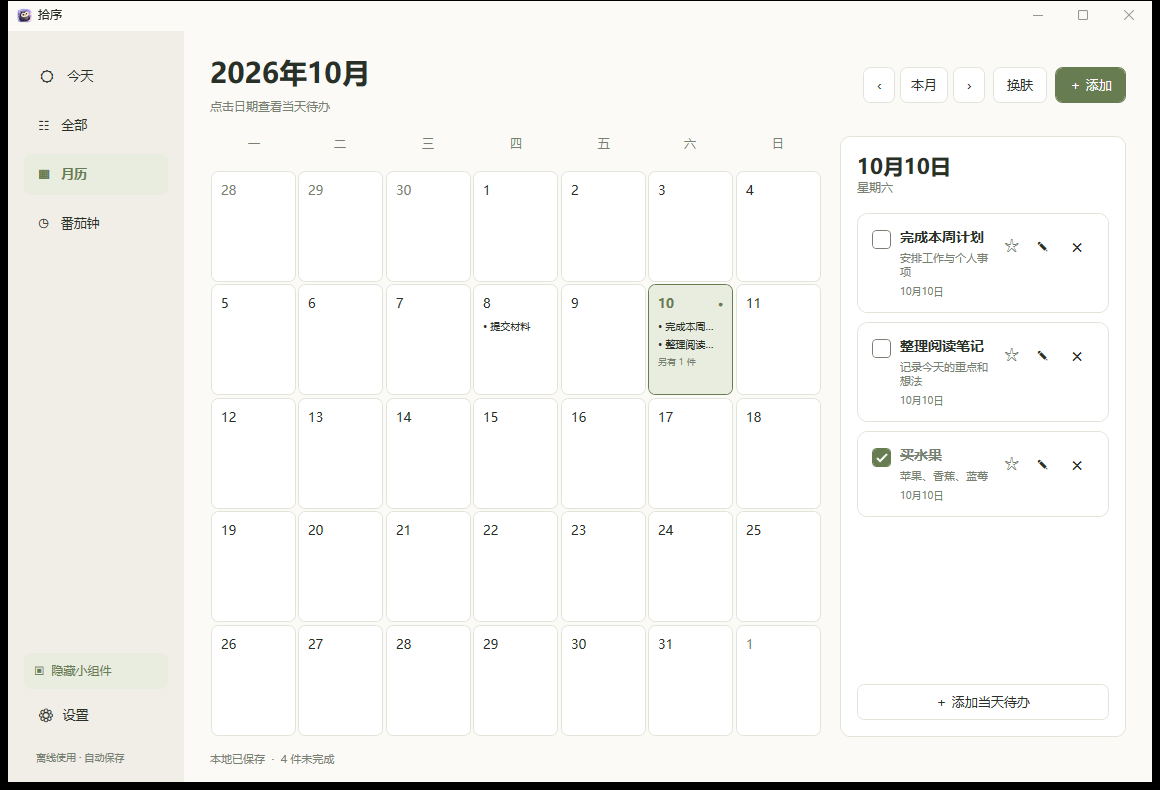
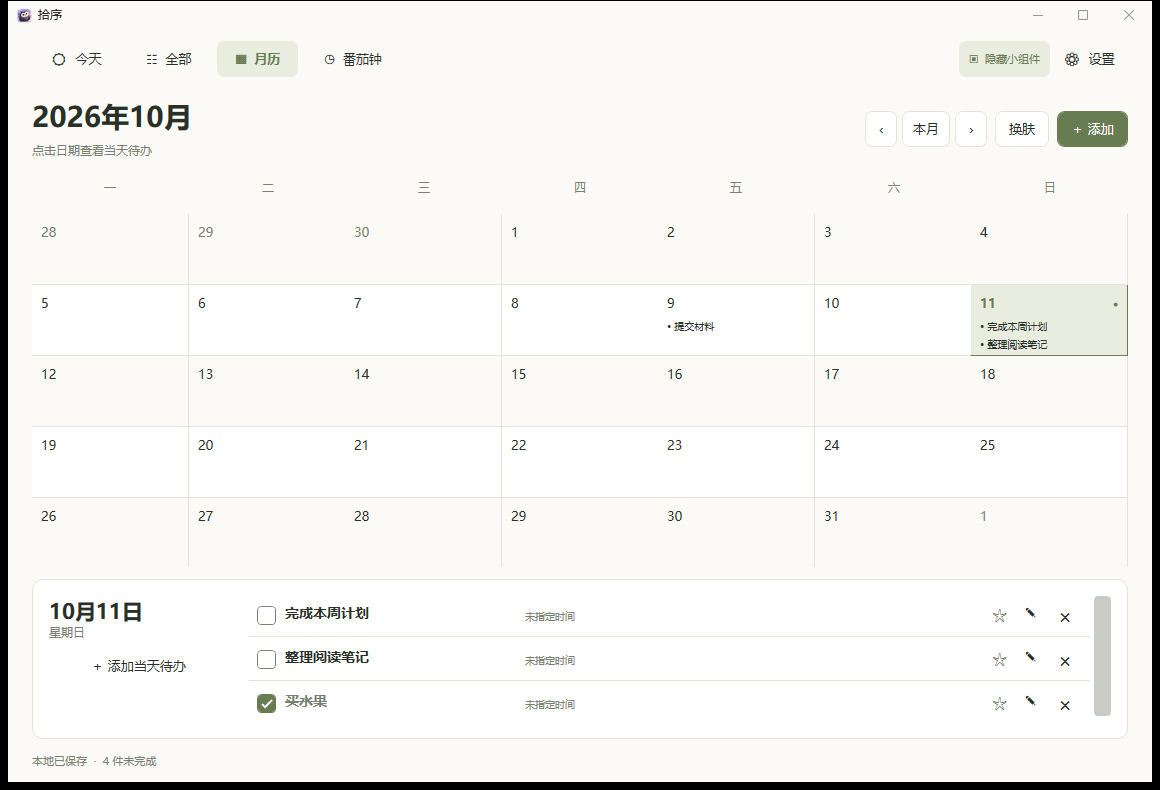
Apply focus workbench B and monthly week-band layout C in v1.8.0

diff --git a/src/Styles.xaml b/src/Styles.xaml
@@ -1,4 +1,4 @@
-<ResourceDictionary xmlns="http://schemas.microsoft.com/winfx/2006/xaml/presentation" xmlns:x="http://schemas.microsoft.com/winfx/2006/xaml" xmlns:p="clr-namespace:System.Windows.Controls.Primitives;assembly=PresentationFramework">
+<ResourceDictionary xmlns="http://schemas.microsoft.com/winfx/2006/xaml/presentation" xmlns:x="http://schemas.microsoft.com/winfx/2006/xaml" xmlns:p="clr-namespace:System.Windows.Controls.Primitives;assembly=PresentationFramework">
   <Style TargetType="Window">
     <Setter Property="FontFamily" Value="Microsoft YaHei UI, Segoe UI"/>
     <Setter Property="FontSize" Value="13"/>
@@ -34,6 +34,12 @@
   <Style x:Key="Primary" TargetType="Button" BasedOn="{StaticResource {x:Type Button}}">
     <Setter Property="Background" Value="{DynamicResource Accent}"/><Setter Property="Foreground" Value="{DynamicResource AccentInk}"/><Setter Property="BorderBrush" Value="{DynamicResource Accent}"/>
   </Style>
+  <Style x:Key="CalendarDay" TargetType="Button" BasedOn="{StaticResource {x:Type Button}}">
+    <Setter Property="Template"><Setter.Value><ControlTemplate TargetType="Button">
+      <Border x:Name="Frame" Background="{TemplateBinding Background}" BorderBrush="{TemplateBinding BorderBrush}" BorderThickness="{TemplateBinding BorderThickness}" Padding="{TemplateBinding Padding}"><ContentPresenter HorizontalAlignment="Stretch" VerticalAlignment="Top"/></Border>
+      <ControlTemplate.Triggers><Trigger Property="IsMouseOver" Value="True"><Setter TargetName="Frame" Property="Background" Value="{DynamicResource Soft}"/></Trigger><Trigger Property="IsKeyboardFocused" Value="True"><Setter TargetName="Frame" Property="BorderBrush" Value="{DynamicResource Accent}"/></Trigger></ControlTemplate.Triggers>
+    </ControlTemplate></Setter.Value></Setter>
+  </Style>
   <Style x:Key="Quiet" TargetType="Button" BasedOn="{StaticResource {x:Type Button}}">
     <Setter Property="Background" Value="Transparent"/><Setter Property="BorderThickness" Value="0"/>
   </Style>
@@ -55,9 +61,9 @@
     </ControlTemplate></Setter.Value></Setter>
   </Style>
   <Style TargetType="TextBox">
-    <Setter Property="Foreground" Value="{DynamicResource Text}"/><Setter Property="Background" Value="{DynamicResource Panel}"/><Setter Property="BorderBrush" Value="{DynamicResource Line}"/><Setter Property="BorderThickness" Value="1"/><Setter Property="Padding" Value="10,9"/><Setter Property="CaretBrush" Value="{DynamicResource Accent}"/>
+    <Setter Property="Foreground" Value="{DynamicResource Text}"/><Setter Property="Background" Value="{DynamicResource Soft}"/><Setter Property="BorderBrush" Value="{DynamicResource Line}"/><Setter Property="BorderThickness" Value="0,0,0,1"/><Setter Property="Padding" Value="8,6"/><Setter Property="CaretBrush" Value="{DynamicResource Accent}"/>
     <Setter Property="Template"><Setter.Value><ControlTemplate TargetType="TextBox">
-      <Border x:Name="Frame" Background="{TemplateBinding Background}" BorderBrush="{TemplateBinding BorderBrush}" BorderThickness="{TemplateBinding BorderThickness}" CornerRadius="7" Padding="{TemplateBinding Padding}"><ScrollViewer x:Name="PART_ContentHost"/></Border>
+      <Border x:Name="Frame" Background="{TemplateBinding Background}" BorderBrush="{TemplateBinding BorderBrush}" BorderThickness="{TemplateBinding BorderThickness}" CornerRadius="3" Padding="{TemplateBinding Padding}"><ScrollViewer x:Name="PART_ContentHost"/></Border>
       <ControlTemplate.Triggers><Trigger Property="IsKeyboardFocused" Value="True"><Setter TargetName="Frame" Property="BorderBrush" Value="{DynamicResource Accent}"/></Trigger></ControlTemplate.Triggers>
     </ControlTemplate></Setter.Value></Setter>
   </Style>

diff --git a/src/Focus.cs b/src/Focus.cs
@@ -123,32 +123,39 @@ namespace DeskTodo
         readonly TextBlock count = Ui.Text("", 12, "Muted");
         readonly StackPanel history = new StackPanel();
         readonly Button start, pause, finish;
+        Button downMode, upMode;
+        readonly StackPanel taskList = new StackPanel();
+        readonly System.Windows.Controls.Primitives.UniformGrid trend = new System.Windows.Controls.Primitives.UniformGrid { Columns = 7 };
+        object taskState; DateTime taskDay;
         string shownSession, historyKey;
         public FocusPanel(AppController controller)
         {
             app = controller;
-            ColumnDefinitions.Add(new ColumnDefinition { Width = new GridLength(1.05, GridUnitType.Star) });
-            ColumnDefinitions.Add(new ColumnDefinition { Width = new GridLength(1, GridUnitType.Star) });
+            ColumnDefinitions.Add(new ColumnDefinition { Width = new GridLength(0.85, GridUnitType.Star) });
+            ColumnDefinitions.Add(new ColumnDefinition { Width = new GridLength(1.4, GridUnitType.Star) });
+            RowDefinitions.Add(new RowDefinition()); RowDefinitions.Add(new RowDefinition { Height = new GridLength(136) });
             var timerPanel = new StackPanel(); timerPanel.Children.Add(Ui.Text("这次学什么", 18, "Text", true));
-            name.Margin = new Thickness(0, 16, 0, 16); AutomationProperties.SetName(name, "学习名称"); timerPanel.Children.Add(name);
-            AutomationProperties.SetName(mode, "学习计时模式"); mode.Margin = new Thickness(0, 0, 0, 14); timerPanel.Children.Add(mode);
+            name.FontSize = 23; name.FontWeight = FontWeights.SemiBold; name.Height = 44; name.Padding = new Thickness(8, 0, 8, 0); name.VerticalContentAlignment = VerticalAlignment.Center; name.Background = Brushes.Transparent; name.Margin = new Thickness(0, 6, 0, 10); AutomationProperties.SetName(name, "学习名称"); timerPanel.Children.Add(name);
+            AutomationProperties.SetName(mode, "学习计时模式"); mode.Visibility = Visibility.Collapsed; timerPanel.Children.Add(mode); var modeBar = new StackPanel { Orientation = Orientation.Horizontal, HorizontalAlignment = HorizontalAlignment.Right, Margin = new Thickness(0, 0, 0, 12) }; downMode = Ui.Button("倒计时", () => mode.SelectedIndex = 0, "Quiet"); upMode = Ui.Button("正向计时", () => mode.SelectedIndex = 1, "Quiet"); modeBar.Children.Add(downMode); modeBar.Children.Add(upMode); timerPanel.Children.Add(modeBar);
             var label = Ui.Text("专注时长", 13, "Muted"); label.VerticalAlignment = VerticalAlignment.Center; label.Margin = new Thickness(0, 0, 12, 0); durationRow.Children.Add(label);
             AutomationProperties.SetName(minutes, "学习分钟"); durationRow.Children.Add(minutes);
             var unit = Ui.Text("分钟 · 1–720", 12, "Muted"); unit.Margin = new Thickness(12, 0, 0, 0); unit.VerticalAlignment = VerticalAlignment.Center; durationRow.Children.Add(unit); timerPanel.Children.Add(durationRow);
-            countdown.FontFamily = new FontFamily("Consolas"); countdown.HorizontalAlignment = HorizontalAlignment.Center; countdown.Margin = new Thickness(0, 38, 0, 8); AutomationProperties.SetName(countdown, "学习倒计时"); timerPanel.Children.Add(countdown);
-            phase.HorizontalAlignment = HorizontalAlignment.Center; phase.Margin = new Thickness(0, 0, 0, 26); timerPanel.Children.Add(phase);
+            countdown.FontSize = 82; countdown.FontFamily = new FontFamily("Consolas"); countdown.HorizontalAlignment = HorizontalAlignment.Center; countdown.Margin = new Thickness(0, 12, 0, 4); AutomationProperties.SetName(countdown, "学习倒计时"); timerPanel.Children.Add(countdown);
+            phase.HorizontalAlignment = HorizontalAlignment.Center; phase.Margin = new Thickness(0, 0, 0, 10); timerPanel.Children.Add(phase);
             var controls = new StackPanel { Orientation = Orientation.Horizontal, HorizontalAlignment = HorizontalAlignment.Center };
             start = Ui.Button("开始学习", () => { int value = 0; bool countUp = mode.SelectedIndex == 1; if (String.IsNullOrWhiteSpace(name.Text) || (!countUp && (!Int32.TryParse(minutes.Text.Trim(), NumberStyles.None, CultureInfo.InvariantCulture, out value) || value < 1 || value > 720))) { phase.Text = countUp ? "请填写学习名称" : "请填写名称和 1–720 分钟的时长"; return; } app.StartFocus(name.Text, value, countUp); }, "Primary"); controls.Children.Add(start);
             pause = Ui.Button("暂停", () => { if (app.FocusRunning) app.PauseFocus(); else app.ResumeFocus(); }); pause.Margin = new Thickness(10, 0, 0, 0); controls.Children.Add(pause); timerPanel.Children.Add(controls);
-            finish = Ui.Button("结束并记录", () => app.FinishFocus(app.Store.State.ActiveFocus != null && app.Store.State.ActiveFocus.IsCountUp), "Quiet"); finish.HorizontalAlignment = HorizontalAlignment.Center; finish.Margin = new Thickness(0, 12, 0, 0); timerPanel.Children.Add(finish);
-            var hint = Ui.Text("暂停时间不计入学习时长。关闭主窗口仍计时，彻底退出或休眠时暂停。", 11, "Muted"); hint.Margin = new Thickness(0, 24, 0, 0); timerPanel.Children.Add(hint);
-            var timerCard = Ui.Card(Ui.Scroll(timerPanel), new Thickness(24)); timerCard.Margin = new Thickness(0, 0, 20, 0); Children.Add(timerCard);
-            var stats = new DockPanel(); var summary = new StackPanel { Margin = new Thickness(0, 0, 0, 20) }; DockPanel.SetDock(summary, Dock.Top); stats.Children.Add(summary);
-            summary.Children.Add(Ui.Text("今日学习", 20, "Text", true)); dayLabel.Margin = new Thickness(0, 6, 0, 20); summary.Children.Add(dayLabel);
-            summary.Children.Add(Ui.Text("累计专注时长（分:秒）", 12, "Muted")); total.Margin = new Thickness(0, 6, 0, 6); summary.Children.Add(total); summary.Children.Add(count);
-            var divider = new Border { Height = 1, Margin = new Thickness(0, 20, 0, 14) }; divider.SetResourceReference(Border.BackgroundProperty, "Line"); summary.Children.Add(divider);
-            summary.Children.Add(Ui.Text("学习记录", 14, "Text", true)); summary.Children.Add(Ui.Text("按实际计时统计；进行中的时长也计入累计。", 11, "Muted"));
-            stats.Children.Add(Ui.Scroll(history)); var statsCard = Ui.Card(stats, new Thickness(22)); Grid.SetColumn(statsCard, 1); Children.Add(statsCard);
+            finish = Ui.Button("结束并记录", () => app.FinishFocus(app.Store.State.ActiveFocus != null && app.Store.State.ActiveFocus.IsCountUp), "Quiet"); finish.Margin = new Thickness(8, 0, 0, 0); controls.Children.Add(finish);
+            var hint = Ui.Text("暂停时间不计入学习时长。关闭主窗口仍计时，彻底退出或休眠时暂停。", 11, "Muted"); hint.Visibility = Visibility.Collapsed; timerPanel.Children.Add(hint);
+            var timerCard = Ui.Card(Ui.Scroll(timerPanel), new Thickness(24)); timerCard.Margin = new Thickness(20, 0, 0, 14); timerCard.BorderThickness = new Thickness(0); Grid.SetColumn(timerCard, 1); Children.Add(timerCard);
+            var stats = new DockPanel(); var listHeader = new DockPanel(); DockPanel.SetDock(listHeader, Dock.Top); stats.Children.Add(listHeader);
+            var addTask = Ui.Button("＋ 添加待办", () => app.Edit(null, DateTime.Today), "Quiet"); DockPanel.SetDock(addTask, Dock.Right); listHeader.Children.Add(addTask); listHeader.Children.Add(Ui.Text("今日任务与记录", 17, "Text", true));
+            var listContent = new StackPanel(); listContent.Children.Add(taskList); var recorded = Ui.Text("已记录的学习", 12, "Muted"); recorded.Margin = new Thickness(0, 18, 0, 12); listContent.Children.Add(recorded); listContent.Children.Add(history);
+            stats.Children.Add(Ui.Scroll(listContent)); var statsCard = Ui.Card(stats, new Thickness(16)); statsCard.BorderThickness = new Thickness(0); statsCard.Margin = new Thickness(0, 0, 0, 14); Children.Add(statsCard);
+            var band = new Grid(); band.ColumnDefinitions.Add(new ColumnDefinition { Width = new GridLength(300) }); band.ColumnDefinitions.Add(new ColumnDefinition());
+            var summary = new StackPanel(); summary.Children.Add(Ui.Text("今日学习", 14, "Text", true)); dayLabel.Margin = new Thickness(0, 3, 0, 5); summary.Children.Add(dayLabel); total.FontSize = 30; summary.Children.Add(total); summary.Children.Add(count); band.Children.Add(summary);
+            var trendPanel = new StackPanel(); trendPanel.Children.Add(Ui.Text("近7天学习时长 · 分钟", 11, "Muted")); trend.Margin = new Thickness(0, 6, 0, 0); trendPanel.Children.Add(trend); Grid.SetColumn(trendPanel, 1); band.Children.Add(trendPanel);
+            var bandCard = Ui.Card(band, new Thickness(16)); Grid.SetRow(bandCard, 1); Grid.SetColumnSpan(bandCard, 2); Children.Add(bandCard);
             minutes.TextChanged += (s, e) => { if (app.Store.State.ActiveFocus == null) { int value; if (Int32.TryParse(minutes.Text, out value) && value >= 1 && value <= 720) countdown.Text = Study.FormatDuration(value * 60); } };
             mode.SelectionChanged += (s, e) => Refresh();
             Refresh();
@@ -159,7 +166,7 @@ namespace DeskTodo
             var active = app.Store.State.ActiveFocus;
             if (active != null && (shownSession != active.Id || forceHistory)) { shownSession = active.Id; name.Text = active.Title; if (!active.IsCountUp) minutes.Text = (active.TargetSeconds / 60).ToString(); mode.SelectedIndex = active.IsCountUp ? 1 : 0; }
             if (active == null) shownSession = null;
-            name.IsEnabled = minutes.IsEnabled = mode.IsEnabled = active == null; start.IsEnabled = active == null; pause.IsEnabled = finish.IsEnabled = active != null; durationRow.Visibility = mode.SelectedIndex == 1 ? Visibility.Collapsed : Visibility.Visible;
+            name.IsEnabled = minutes.IsEnabled = mode.IsEnabled = downMode.IsEnabled = upMode.IsEnabled = active == null; downMode.SetResourceReference(Button.BackgroundProperty, mode.SelectedIndex == 0 ? "Soft" : "Surface"); upMode.SetResourceReference(Button.BackgroundProperty, mode.SelectedIndex == 1 ? "Soft" : "Surface"); start.IsEnabled = active == null; pause.IsEnabled = finish.IsEnabled = active != null; durationRow.Visibility = mode.SelectedIndex == 1 ? Visibility.Collapsed : Visibility.Visible;
             pause.Content = active == null || app.FocusRunning ? "暂停" : "继续"; AutomationProperties.SetName(pause, pause.Content.ToString());
             if (active != null) { countdown.Text = Study.FormatDuration(active.IsCountUp ? app.FocusSeconds : Math.Ceiling(Math.Max(0, active.TargetSeconds - app.FocusSeconds))); phase.Text = app.FocusRunning ? active.IsCountUp ? "正向计时中 · 随时结束并记录" : "专注中 · 一次只做一件事" : "已暂停 · 可继续本次学习"; }
             else { int value; countdown.Text = Study.FormatDuration(mode.SelectedIndex == 0 && Int32.TryParse(minutes.Text, out value) && value > 0 && value <= 720 ? value * 60 : 0); phase.Text = mode.SelectedIndex == 1 ? "无需预设时长，从 00:00 开始" : "准备开始"; }
@@ -167,6 +174,7 @@ namespace DeskTodo
             var records = app.Store.State.FocusHistory.Where(f => Study.SecondsOn(f, today) > 0 || DateTimeOffset.ParseExact(f.EndedAt, "o", CultureInfo.InvariantCulture).Date == today).ToList();
             double seconds = records.Sum(f => Study.SecondsOn(f, today)); var current = app.FocusSnapshot(); if (current != null) seconds += Study.SecondsOn(current, today);
             total.Text = Study.FormatDuration(seconds);
+            RefreshTasksAndTrend(today, current);
             int completed = records.Count(f => f.Completed && DateTimeOffset.ParseExact(f.EndedAt, "o", CultureInfo.InvariantCulture).Date == today);
             int ended = records.Count(f => !f.Completed && DateTimeOffset.ParseExact(f.EndedAt, "o", CultureInfo.InvariantCulture).Date == today);
             count.Text = "完成 " + completed + " 次  ·  提前结束 " + ended + " 次";
@@ -181,6 +189,16 @@ namespace DeskTodo
                 row.Children.Add(Ui.Text(from.ToString("M/d HH:mm") + " – " + to.ToString("M/d HH:mm") + "  ·  " + (record.Completed ? "已完成" : "提前结束"), 11, record.Completed ? "Accent" : "Muted"));
                 var card = Ui.Card(row, new Thickness(14)); card.Margin = new Thickness(0, 0, 0, 10); history.Children.Add(card);
             }
+        }
+        void RefreshTasksAndTrend(DateTime today, FocusSession current)
+        {
+            if (Object.ReferenceEquals(taskState, app.Store.State) && taskDay == today) return;
+            taskState = app.Store.State; taskDay = today; taskList.Children.Clear();
+            var tasks = app.Store.State.Items.Where(i => !i.Done && i.Date == Dates.Key(today)).OrderByDescending(i => i.Important).ThenBy(i => i.Time ?? "99:99").ToList();
+            if (tasks.Count == 0) taskList.Children.Add(Ui.Text("今天暂无待办，可直接填写学习名称", 12, "Muted"));
+            foreach (var task in tasks) { var button = Ui.Button("", () => { if (app.Store.State.ActiveFocus == null) name.Text = task.Title; }, "Quiet"); button.HorizontalContentAlignment = HorizontalAlignment.Stretch; var row = new StackPanel(); row.Children.Add(Ui.Text((task.Important ? "★ " : "○ ") + task.Title, 14, "Text", true)); row.Children.Add(Ui.Text((task.Time ?? "未指定时间") + (String.IsNullOrWhiteSpace(task.Location) ? "" : " · " + task.Location), 11, "Muted")); button.Content = row; button.Margin = new Thickness(0, 6, 0, 0); button.ToolTip = "点击填入学习名称；不会自动完成待办"; AutomationProperties.SetName(button, "学习任务 " + task.Title); taskList.Children.Add(button); }
+            trend.Children.Clear(); var all = app.Store.State.FocusHistory.ToList(); if (current != null) all.Add(current); var report = Study.Summarize(all, today.AddDays(-6), today); double max = Math.Max(60, report.SecondsByDay.Values.Max());
+            for (int n = 0; n < 7; n++) { var day = today.AddDays(n - 6); double value = report.SecondsByDay[Dates.Key(day)]; var column = new StackPanel { Margin = new Thickness(7, 0, 7, 0) }; var t = Ui.Text((value / 60).ToString("0.#"), 9, "Muted"); t.TextAlignment = TextAlignment.Center; column.Children.Add(t); var plot = new Grid { Height = 52 }; var bar = new Border { Height = value / max * 52, VerticalAlignment = VerticalAlignment.Bottom, CornerRadius = new CornerRadius(3, 3, 0, 0) }; bar.SetResourceReference(Border.BackgroundProperty, "Accent"); plot.Children.Add(bar); column.Children.Add(plot); var date = Ui.Text(day.ToString("M/d"), 10, "Muted"); date.TextAlignment = TextAlignment.Center; column.Children.Add(date); trend.Children.Add(column); }
         }
     }
 }

diff --git a/src/MainWindow.cs b/src/MainWindow.cs
@@ -33,20 +33,16 @@ namespace DeskTodo
             SourceInitialized += (s, e) => { NativeDesktop.DarkTitle(this, app.Settings.Theme == "dark"); NativeDesktop.RegisterActivation(this, app.BasePath, app.ShowMain, app.Exit); };
             Closing += (s, e) => { if (!app.Exiting) { e.Cancel = true; Hide(); } };
             PreviewKeyDown += (s, e) => { if (e.Key == Key.N && (Keyboard.Modifiers & ModifierKeys.Control) != 0) { app.Edit(null, page == "全部" ? (DateTime?)null : page == "月历" ? selected : DateTime.Today); e.Handled = true; } };
-            var layout = new Grid(); layout.ColumnDefinitions.Add(new ColumnDefinition { Width = new GridLength(176) }); layout.ColumnDefinitions.Add(new ColumnDefinition()); Content = layout;
-            var side = new DockPanel { Margin = new Thickness(16, 25, 16, 18) };
-            var sideBorder = new Border { Child = side }; sideBorder.SetResourceReference(Border.BackgroundProperty, "Sidebar"); layout.Children.Add(sideBorder);
-            var footer = new StackPanel(); DockPanel.SetDock(footer, Dock.Bottom); side.Children.Add(footer);
-            widgetToggle = Ui.Button("▣  桌面小组件", () => app.ToggleWidget(), "Quiet"); widgetToggle.HorizontalContentAlignment = HorizontalAlignment.Left; widgetToggle.FontSize = 12; widgetToggle.Padding = new Thickness(10, 10, 6, 10); widgetToggle.Margin = new Thickness(0, 0, 0, 8); footer.Children.Add(widgetToggle);
-            var settings = Ui.Button("⚙  设置", () => { var window = new SettingsWindow(app) { Owner = this, WindowStartupLocation = WindowStartupLocation.CenterOwner }; window.ShowDialog(); }, "Quiet"); settings.HorizontalContentAlignment = HorizontalAlignment.Left; footer.Children.Add(settings);
-            var offline = Ui.Text("离线使用 · 自动保存", 10, "Muted"); offline.Margin = new Thickness(12, 18, 0, 0); footer.Children.Add(offline);
-            var nav = new StackPanel(); side.Children.Add(nav);
+            var layout = new DockPanel(); Content = layout;
+            var navigationBar = new Grid { Margin = new Thickness(24, 10, 24, 10) }; navigationBar.ColumnDefinitions.Add(new ColumnDefinition()); navigationBar.ColumnDefinitions.Add(new ColumnDefinition { Width = GridLength.Auto });
+            DockPanel.SetDock(navigationBar, Dock.Top); layout.Children.Add(navigationBar);
+            var nav = new StackPanel { Orientation = Orientation.Horizontal }; navigationBar.Children.Add(nav);
             string[] keys = { "今天", "全部", "月历", "番茄钟" }, icons = { "☀", "☷", "▦", "◷" };
-            for (int n = 0; n < keys.Length; n++)
-            {
-                string key = keys[n]; var b = Ui.Button(icons[n] + "   " + key, () => SelectPage(key), "Quiet"); b.HorizontalContentAlignment = HorizontalAlignment.Left; b.Padding = new Thickness(14, 12, 10, 12); b.Margin = new Thickness(0, 0, 0, 8); navigation[key] = b; nav.Children.Add(b);
-            }
-            var main = new Grid { Margin = new Thickness(26, 24, 26, 16) }; main.RowDefinitions.Add(new RowDefinition { Height = GridLength.Auto }); main.RowDefinitions.Add(new RowDefinition()); main.RowDefinitions.Add(new RowDefinition { Height = GridLength.Auto }); Grid.SetColumn(main, 1); layout.Children.Add(main);
+            for (int n = 0; n < keys.Length; n++) { string key = keys[n]; var b = Ui.Button(icons[n] + "  " + key, () => SelectPage(key), "Quiet"); b.Padding = new Thickness(18, 9, 18, 9); b.Margin = new Thickness(0, 0, 8, 0); navigation[key] = b; nav.Children.Add(b); }
+            var utilities = new StackPanel { Orientation = Orientation.Horizontal }; Grid.SetColumn(utilities, 1); navigationBar.Children.Add(utilities);
+            widgetToggle = Ui.Button("▣  桌面小组件", () => app.ToggleWidget(), "Quiet"); widgetToggle.FontSize = 11; widgetToggle.Padding = new Thickness(10, 8, 10, 8); utilities.Children.Add(widgetToggle);
+            utilities.Children.Add(Ui.Button("⚙  设置", () => { var window = new SettingsWindow(app) { Owner = this, WindowStartupLocation = WindowStartupLocation.CenterOwner }; window.ShowDialog(); }, "Quiet"));
+            var main = new Grid { Margin = new Thickness(24, 12, 24, 14) }; main.RowDefinitions.Add(new RowDefinition { Height = GridLength.Auto }); main.RowDefinitions.Add(new RowDefinition()); main.RowDefinitions.Add(new RowDefinition { Height = GridLength.Auto }); layout.Children.Add(main);
             var header = new Grid { Margin = new Thickness(0, 0, 0, 22) }; header.ColumnDefinitions.Add(new ColumnDefinition()); header.ColumnDefinitions.Add(new ColumnDefinition { Width = GridLength.Auto }); main.Children.Add(header);
             var titles = new StackPanel(); titles.Children.Add(heading); subtitle.Margin = new Thickness(0, 8, 0, 0); titles.Children.Add(subtitle); header.Children.Add(titles);
             Grid.SetColumn(tools, 1); tools.VerticalAlignment = VerticalAlignment.Center; header.Children.Add(tools);
@@ -67,7 +63,7 @@ namespace DeskTodo
             foreach (var pair in navigation)
             {
                 bool active = pair.Key == page || (page == "学习统计" && pair.Key == "番茄钟");
-                pair.Value.SetResourceReference(Button.BackgroundProperty, active ? "Soft" : "Sidebar");
+                pair.Value.SetResourceReference(Button.BackgroundProperty, active ? "Soft" : "Surface");
                 pair.Value.SetResourceReference(Button.ForegroundProperty, active ? "Accent" : "Text");
                 pair.Value.FontWeight = active ? FontWeights.SemiBold : FontWeights.Normal;
             }
@@ -99,8 +95,8 @@ namespace DeskTodo
         }
         void RenderCalendar()
         {
-            body.ColumnDefinitions.Add(new ColumnDefinition()); body.ColumnDefinitions.Add(new ColumnDefinition { Width = new GridLength(286) });
-            var calendar = new Grid { Margin = new Thickness(0, 0, 18, 0) }; calendar.RowDefinitions.Add(new RowDefinition { Height = new GridLength(34) }); calendar.RowDefinitions.Add(new RowDefinition()); body.Children.Add(calendar);
+            body.RowDefinitions.Add(new RowDefinition()); body.RowDefinitions.Add(new RowDefinition { Height = new GridLength(160) });
+            var calendar = new Grid { Margin = new Thickness(0, 0, 0, 12) }; calendar.RowDefinitions.Add(new RowDefinition { Height = new GridLength(34) }); calendar.RowDefinitions.Add(new RowDefinition()); body.Children.Add(calendar);
             var weekdays = new UniformGrid { Rows = 1, Columns = 7 };
             foreach (string name in new[] { "一", "二", "三", "四", "五", "六", "日" }) { var t = Ui.Text(name, 12, "Muted"); t.HorizontalAlignment = HorizontalAlignment.Center; weekdays.Children.Add(t); }
             calendar.Children.Add(weekdays);
@@ -122,20 +118,20 @@ namespace DeskTodo
                     preview.TextWrapping = TextWrapping.NoWrap; preview.TextTrimming = TextTrimming.CharacterEllipsis; preview.Margin = new Thickness(0, 0, 0, 5); if (item.Done) preview.TextDecorations = TextDecorations.Strikethrough; stack.Children.Add(preview);
                 }
                 if (items.Count > 2) stack.Children.Add(Ui.Text("另有 " + (items.Count - 2) + " 件", 9, "Muted"));
-                var day = Ui.Button("", () => SelectDay(date)); day.Content = stack; day.Padding = new Thickness(9, 10, 9, 5); day.MinHeight = 0; day.Margin = new Thickness(1); day.HorizontalContentAlignment = HorizontalAlignment.Stretch; day.VerticalContentAlignment = VerticalAlignment.Top;
-                day.SetResourceReference(Button.BackgroundProperty, isSelected ? "Soft" : "Panel"); day.SetResourceReference(Button.BorderBrushProperty, isSelected ? "Accent" : "Line");
+                var day = Ui.Button("", () => SelectDay(date), "CalendarDay"); day.Content = stack; day.Padding = new Thickness(9, 10, 9, 5); day.MinHeight = 0; day.Margin = new Thickness(0); day.BorderThickness = new Thickness(0, 0, 1, 1); day.HorizontalContentAlignment = HorizontalAlignment.Stretch; day.VerticalContentAlignment = VerticalAlignment.Top;
+                day.SetResourceReference(Button.BackgroundProperty, isSelected ? "Soft" : (n / 7 % 2 == 0 ? "Surface" : "Panel")); day.SetResourceReference(Button.BorderBrushProperty, isSelected ? "Accent" : "Line");
                 System.Windows.Automation.AutomationProperties.SetName(day, date.ToString("yyyy年M月d日") + "，" + items.Count + " 件待办"); days.Children.Add(day);
             }
-            var detail = new DockPanel();
-            var footer = new StackPanel { Margin = new Thickness(0, 14, 0, 0) }; DockPanel.SetDock(footer, Dock.Bottom); detail.Children.Add(footer);
-            footer.Children.Add(Ui.Button("＋ 添加当天待办", () => app.Edit(null, selected)));
-            if (app.CanUndo) { var undo = Ui.Button("撤销删除", app.UndoDelete, "Quiet"); undo.Margin = new Thickness(0, 7, 0, 0); footer.Children.Add(undo); }
-            var title = new StackPanel { Margin = new Thickness(0, 0, 0, 18) }; title.Children.Add(Ui.Text(selected.ToString("M月d日"), 21, "Text", true)); title.Children.Add(Ui.Text(selected.ToString("dddd"), 12, "Muted")); DockPanel.SetDock(title, Dock.Top); detail.Children.Add(title);
+            var detail = new Grid(); detail.ColumnDefinitions.Add(new ColumnDefinition { Width = new GridLength(200) }); detail.ColumnDefinitions.Add(new ColumnDefinition());
+            var title = new StackPanel { Margin = new Thickness(0, 2, 20, 0) }; title.Children.Add(Ui.Text(selected.ToString("M月d日"), 21, "Text", true)); title.Children.Add(Ui.Text(selected.ToString("dddd"), 12, "Muted"));
+            var addDay = Ui.Button("＋ 添加当天待办", () => app.Edit(null, selected), "Quiet"); addDay.Margin = new Thickness(0, 8, 0, 0); title.Children.Add(addDay);
+            if (app.CanUndo) title.Children.Add(Ui.Button("撤销删除", app.UndoDelete, "Quiet")); detail.Children.Add(title);
             var list = new StackPanel();
             var selectedItems = app.Store.State.Items.Where(i => i.Date == Dates.Key(selected)).OrderBy(i => i.Done).ThenByDescending(i => i.Important).ThenBy(i => i.Time ?? "99:99").ThenBy(i => i.CreatedUtc).ToList();
             if (selectedItems.Count == 0) Ui.Empty(list, "这一天还没有安排", "添加一件想完成的事");
-            else foreach (var item in selectedItems) list.Children.Add(Ui.TaskRow(app, item, false));
-            detail.Children.Add(Ui.Scroll(list)); var detailCard = Ui.Card(detail, new Thickness(16)); Grid.SetColumn(detailCard, 1); body.Children.Add(detailCard);
+            else foreach (var item in selectedItems) list.Children.Add(Ui.TaskRow(app, item, false, true));
+            var scroll = Ui.Scroll(list); Grid.SetColumn(scroll, 1); detail.Children.Add(scroll);
+            var detailCard = Ui.Card(detail, new Thickness(16)); Grid.SetRow(detailCard, 1); body.Children.Add(detailCard);
         }
         void RenderList()
         {

diff --git a/src/Ui.cs b/src/Ui.cs
@@ -36,7 +36,7 @@ namespace DeskTodo
             using (var stream = System.Reflection.Assembly.GetExecutingAssembly().GetManifestResourceStream("App.ico"))
                 window.Icon = System.Windows.Media.Imaging.BitmapFrame.Create(stream, System.Windows.Media.Imaging.BitmapCreateOptions.None, System.Windows.Media.Imaging.BitmapCacheOption.OnLoad);
         }
-        public static FrameworkElement TaskRow(AppController app, TodoItem item, bool compact)
+        public static FrameworkElement TaskRow(AppController app, TodoItem item, bool compact, bool flat = false)
         {
             var row = new Grid(); row.ColumnDefinitions.Add(new ColumnDefinition { Width = new GridLength(26) }); row.ColumnDefinitions.Add(new ColumnDefinition());
             row.ColumnDefinitions.Add(new ColumnDefinition { Width = new GridLength(28) });
@@ -49,24 +49,29 @@ namespace DeskTodo
             title.MaxHeight = compact ? 44 : 62;
             if (item.Done) title.TextDecorations = TextDecorations.Strikethrough;
             content.Children.Add(title);
+            if (flat) { content.Orientation = Orientation.Horizontal; title.Width = 240; title.TextWrapping = TextWrapping.NoWrap; title.TextTrimming = TextTrimming.CharacterEllipsis; }
             string note = item.Note ?? "";
-            if (!String.IsNullOrWhiteSpace(note)) { var n = Text(note, 11, "Muted"); n.MaxHeight = 34; n.Margin = new Thickness(0, 5, 0, 0); content.Children.Add(n); }
+            if (!flat && !String.IsNullOrWhiteSpace(note)) { var n = Text(note, 11, "Muted"); n.MaxHeight = 34; n.Margin = new Thickness(0, 5, 0, 0); content.Children.Add(n); }
             string date = item.Date == null ? "未设日期" : DateTime.ParseExact(item.Date, "yyyy-MM-dd", CultureInfo.InvariantCulture).ToString("M月d日");
             if (item.Time != null) date += "  " + item.Time;
             if (item.Reminder) date += " · 提醒";
             if (item.SeriesId != null) date += " · 重复";
             if (Dates.Overdue(item, DateTime.Today)) date += " · 逾期";
+            if (flat) date = (item.Time ?? "未指定时间") + (String.IsNullOrWhiteSpace(item.Location) ? "" : "  ·  " + item.Location);
             var label = Text(date, 10, Dates.Overdue(item, DateTime.Today) ? "Danger" : "Muted"); label.Margin = new Thickness(0, 6, 0, 0); content.Children.Add(label);
-            if (!String.IsNullOrWhiteSpace(item.Location)) { var location = Text("地点：" + item.Location, 11, "Muted"); location.MaxHeight = 34; location.Margin = new Thickness(0, 4, 0, 0); location.ToolTip = item.Location; content.Children.Add(location); }
+            if (!flat && !String.IsNullOrWhiteSpace(item.Location)) { var location = Text("地点：" + item.Location, 11, "Muted"); location.MaxHeight = 34; location.Margin = new Thickness(0, 4, 0, 0); location.ToolTip = item.Location; content.Children.Add(location); }
             content.MouseLeftButtonDown += (s, e) => { if (e.ClickCount == 2) app.Edit(item, null); };
             Grid.SetColumn(content, 1); row.Children.Add(content);
             var star = Button(item.Important ? "★" : "☆", () => app.ToggleImportant(item.Id), "Quiet"); star.Padding = new Thickness(0); star.FontSize = 18; star.VerticalAlignment = VerticalAlignment.Top; star.SetResourceReference(System.Windows.Controls.Button.ForegroundProperty, item.Important ? "Accent" : "Muted"); star.ToolTip = item.Important ? "取消重要任务" : "标为重要任务"; AutomationProperties.SetName(star, "重要 " + item.Title); Grid.SetColumn(star, 2); row.Children.Add(star);
+            if (flat) star.MinHeight = 0;
             if (!compact)
             {
                 var edit = Button("✎", () => app.Edit(item, null), "Quiet"); edit.Padding = new Thickness(0); edit.ToolTip = "编辑"; edit.VerticalAlignment = VerticalAlignment.Top; AutomationProperties.SetName(edit, "编辑 " + item.Title); Grid.SetColumn(edit, 3); row.Children.Add(edit);
                 var remove = Button("×", () => app.Delete(item.Id), "Quiet"); remove.Padding = new Thickness(0); remove.ToolTip = "删除当次（可撤销）"; remove.FontSize = 19; remove.VerticalAlignment = VerticalAlignment.Top; AutomationProperties.SetName(remove, "删除 " + item.Title); Grid.SetColumn(remove, 4); row.Children.Add(remove);
+                if (flat) { edit.MinHeight = 0; remove.MinHeight = 0; }
             }
             var card = Card(row, new Thickness(compact ? 12 : 14)); card.Margin = new Thickness(0, 0, 0, 9);
+            if (flat) { card.Padding = new Thickness(8); card.Margin = new Thickness(0, 0, 0, 3); card.BorderThickness = new Thickness(0, 0, 0, 1); card.CornerRadius = new CornerRadius(0); card.Background = Brushes.Transparent; card.ToolTip = item.Title + "\n" + (item.Note ?? ""); }
             if (compact) { card.SetResourceReference(Border.BackgroundProperty, "GlassCard"); card.SetResourceReference(Border.BorderBrushProperty, "GlassBorder"); }
             var menu = new ContextMenu();
             var editMenu = new MenuItem { Header = "编辑" }; editMenu.Click += (s, e) => app.Edit(item, null); menu.Items.Add(editMenu);

diff --git a/src/UiSmoke.cs b/src/UiSmoke.cs
@@ -1,4 +1,4 @@
-using System;
+using System;
 using System.IO;
 using System.Linq;
 using System.Collections.Generic;
@@ -175,7 +175,7 @@ namespace DeskTodo
                 }
                 var editor = new EditWindow(app, null, DateTime.Today);
                 editor.Show(); editor.UpdateLayout(); Capture(editor, Path.Combine(root, "editor.png"));
-                Check(Controls<DatePickerTextBox>(editor).First().Background == Application.Current.Resources["Panel"], "date input follows dark theme");
+                Check(Controls<DatePickerTextBox>(editor).First().Background == Application.Current.Resources["Soft"], "date input follows dark theme");
                 Check(Controls<ComboBox>(editor).Any(c => AutomationProperties.GetName(c) == "待办小时") && Controls<ComboBox>(editor).Any(c => AutomationProperties.GetName(c) == "待办分钟"), "editor offers hour and minute selection");
                 Controls<TextBox>(editor).First(t => AutomationProperties.GetName(t) == "待办标题").Text = "界面输入测试";
                 Controls<TextBox>(editor).First(t => AutomationProperties.GetName(t) == "待办地点").Text = "会议室 A";
@@ -261,6 +261,7 @@ namespace DeskTodo
                 Controls<Button>(app.Main).First(b => (b.Content as string) == "返回番茄钟").RaiseEvent(new RoutedEventArgs(Button.ClickEvent));
                 var studyName = Controls<TextBox>(app.Main).First(t => AutomationProperties.GetName(t) == "学习名称");
                 var studyMinutes = Controls<TextBox>(app.Main).First(t => AutomationProperties.GetName(t) == "学习分钟");
+                { var learningTask = Controls<Button>(app.Main).First(b => AutomationProperties.GetName(b).StartsWith("学习任务 ")); learningTask.RaiseEvent(new RoutedEventArgs(Button.ClickEvent)); Check(studyName.Text == AutomationProperties.GetName(learningTask).Substring("学习任务 ".Length), "workbench task selection fills study name"); }
                 studyName.Text = "阅读论文"; studyMinutes.Text = "25";
                 Check(Controls<TextBlock>(app.Main).First(t => AutomationProperties.GetName(t) == "学习倒计时").Text == "25:00", "focus page previews custom duration");
                 Controls<Button>(app.Main).First(b => (b.Content as string) == "开始学习").RaiseEvent(new RoutedEventArgs(Button.ClickEvent));
@@ -321,6 +322,7 @@ namespace DeskTodo
                     exampleStart = exampleStart.AddHours(4);
                     Study.Start(state, "学习英语", 20, exampleStart); Study.AddTime(state, exampleStart, 480); Study.Finish(state, exampleStart.AddMinutes(8), false);
                 });
+                { var learningTask = Controls<Button>(app.Main).First(b => AutomationProperties.GetName(b).StartsWith("学习任务 ")); learningTask.RaiseEvent(new RoutedEventArgs(Button.ClickEvent)); Check(studyName.Text == AutomationProperties.GetName(learningTask).Substring("学习任务 ".Length), "workbench task selection fills study name"); }
                 studyName.Text = "阅读论文"; studyMinutes.Text = "25";
                 app.Main.Refresh(); app.Main.UpdateLayout(); Capture(app.Main, Path.Combine(root, "focus-dashboard.png"));
                 Check(Controls<TextBlock>(app.Main).Any(t => t.Text == "复习笔记") && Controls<TextBlock>(app.Main).Any(t => t.Text.Contains("完成 2 次")), "today dashboard displays names and completed focus count");

diff --git a/src/App.cs b/src/App.cs
@@ -15,7 +15,7 @@ using Forms = System.Windows.Forms;
 
 [assembly: AssemblyTitle("拾序")]
 [assembly: AssemblyProduct("拾序 · 桌面待办")]
-[assembly: AssemblyVersion("1.7.0.0")]
+[assembly: AssemblyVersion("1.8.0.0")]
 
 namespace DeskTodo
 {

diff --git a/docs/使用说明.md b/docs/使用说明.md
@@ -1,5 +1,7 @@
 # 拾序使用说明
 
+v1.8.0 使用顶部导航。月历按周横向排列，点击日期后在底部查看、编辑、完成和删除当天任务。番茄钟左侧显示当天待办与学习记录，点击待办可填入学习名称；右侧操作计时，底部查看今日汇总与7天趋势。学习完成不会自动改变待办完成状态。正向计时与倒计时用并排按钮切换，未结束学习时不可切换模式。
+
 ## 待办
 
 右上角“添加”或 `Ctrl+N` 创建待办。标题必填；日期、时间、地点及备注可选。选择日期后勾选“指定时间”，分别选择小时和分钟。地点可以填写会议室、实验室、线上等文本，最多 200 字。
